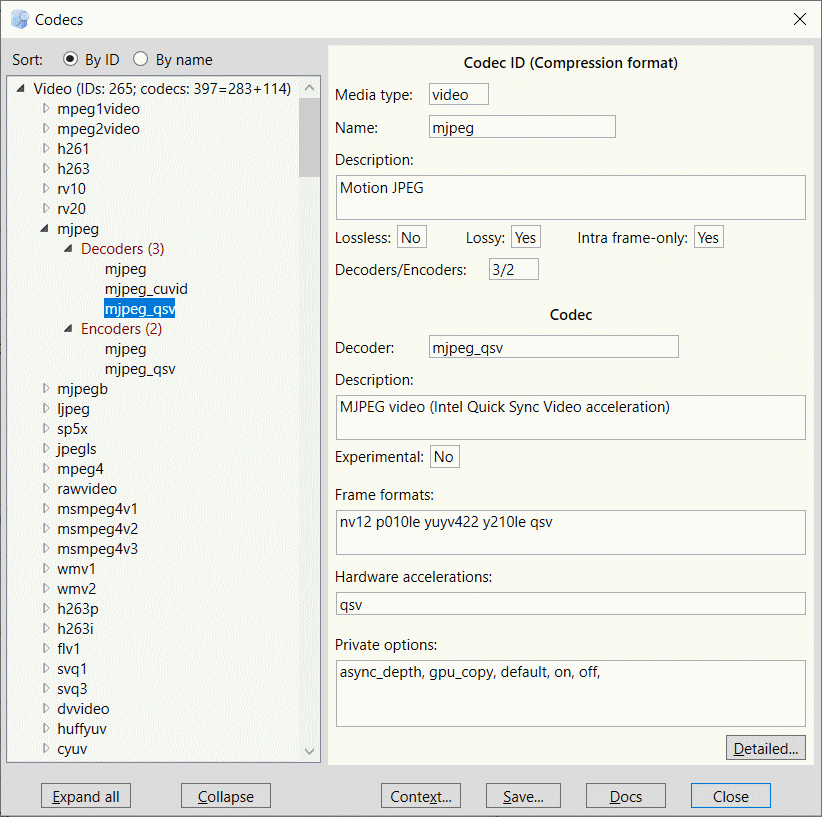
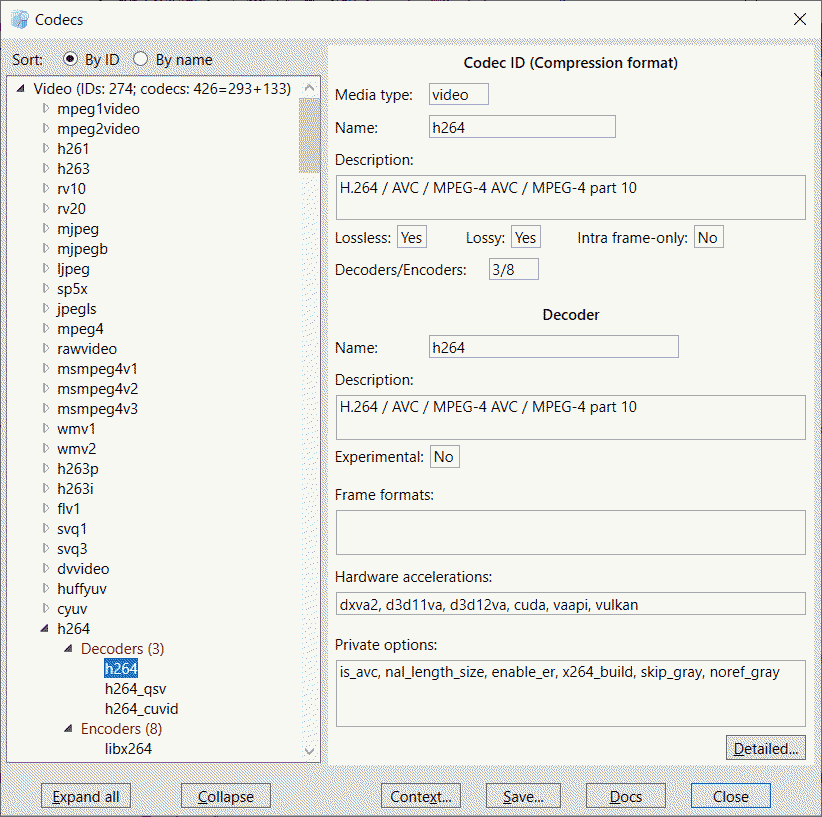
first commit 6

diff --git a/sources/FFmpegNetApps/Explorer/CodecWindow.xaml b/sources/FFmpegNetApps/Explorer/CodecWindow.xaml
@@ -49,7 +49,7 @@
                     <TextBox Name="textCodecIdName" Width="150" IsReadOnly="True" Text="" VerticalAlignment="Center"/>
                 </StackPanel>
                 <Label Content="Description:" />
-                <TextBox Name="textCodecId" Height="36" Margin="6, 0, 6, 0" IsReadOnly="True" TextWrapping="Wrap" VerticalAlignment="Center" VerticalScrollBarVisibility="Auto"/>
+                <TextBox Name="textCodecIdDescr" Height="36" Margin="6, 0, 6, 0" IsReadOnly="True" TextWrapping="Wrap" VerticalAlignment="Center" VerticalScrollBarVisibility="Auto"/>
                 <StackPanel Orientation="Horizontal">
                     <Label Content="Lossless:"/>
                     <TextBox Name="textLossless" Width="24" IsReadOnly="True" Text="" VerticalAlignment="Center"/>
@@ -66,13 +66,13 @@
                 
 
             <StackPanel Margin="0,10,0,0" Background="Ivory">
-                <Label Content="Codec" HorizontalAlignment="Center" FontWeight="SemiBold" />
-                <StackPanel Orientation="Horizontal"  >
-                    <Label Name="labelCodecName" Content="Name/Use:"  Width="80" />
+                    <Label Name="labelCodec" Content="Codec" HorizontalAlignment="Center" FontWeight="SemiBold" />
+                <StackPanel Orientation="Horizontal" >
+                    <Label Content="Name:"  Width="80" />
                         <TextBox Name="textCodecName" Width="200" IsReadOnly="True" Text="" VerticalAlignment="Center"/>
                 </StackPanel>
                 <Label Content="Description:" />
-                <TextBox Name="textCodecLongName" Height="36" Margin="6, 0, 6, 0" IsReadOnly="True" TextWrapping="Wrap" VerticalAlignment="Center" VerticalScrollBarVisibility="Auto"/>
+                <TextBox Name="textCodecDescr" Height="36" Margin="6, 0, 6, 0" IsReadOnly="True" TextWrapping="Wrap" VerticalAlignment="Center" VerticalScrollBarVisibility="Auto"/>
             
                 <StackPanel Orientation="Horizontal">
                     <Label Content="Experimental:"/>
@@ -83,7 +83,7 @@
                 <Label Content="Hardware accelerations:" Margin="0, 4, 0, 0" />
                 <TextBox Name="textAccelerations" Height="18" Margin="6, 0, 6, 6" IsReadOnly="True" TextWrapping="Wrap" VerticalAlignment="Center" VerticalScrollBarVisibility="Auto"/>
                 <Label Content="Private options:" Margin="0, 4, 0, 0" />
-                <TextBox Name="textPrivOptions" Height="54" Margin="6, 0, 6, 6" IsReadOnly="True" TextWrapping="Wrap" VerticalAlignment="Center" VerticalScrollBarVisibility="Auto"/>
+                <TextBox Name="textPrivOpts" Height="54" Margin="6, 0, 6, 6" IsReadOnly="True" TextWrapping="Wrap" VerticalAlignment="Center" VerticalScrollBarVisibility="Auto"/>
                     <Button Name="buttonPrivOpts" Width="64" HorizontalAlignment="Right" Content="_Detailed..." Margin="0, 0, 6, 4"  IsEnabled="False" 
                         Click="buttonPrivOpts_Click" />
 

diff --git a/sources/FFmpegNetApps/Explorer/FormatWindow.xaml b/sources/FFmpegNetApps/Explorer/FormatWindow.xaml
@@ -27,19 +27,19 @@
         </TreeView>
 
         <StackPanel Grid.Column="1"  Background="Ivory" Margin="6, 6, 6, 10">
-            <Label Name="labelDemuxMux" Content="Type" HorizontalAlignment="Center" FontWeight="SemiBold" />
+            <Label Name="labelDemuxMux" Content="Format" HorizontalAlignment="Center" FontWeight="SemiBold" />
             <StackPanel Orientation="Horizontal"  >
                 <Label Content="Name:"  Width="50" />
-                <TextBox Name="textFormatName" Width="200" IsReadOnly="True" Text="" VerticalAlignment="Center"/>
+                <TextBox Name="textName" Width="200" IsReadOnly="True" Text="" VerticalAlignment="Center"/>
             </StackPanel>
             <Label Content="Description:" />
-            <TextBox Name="textFormatLongName" Height="36" Margin="6, 0, 6, 0" IsReadOnly="True" TextWrapping="Wrap" VerticalAlignment="Center" VerticalScrollBarVisibility="Auto" />
+            <TextBox Name="textDescr" Height="36" Margin="6, 0, 6, 0" IsReadOnly="True" TextWrapping="Wrap" VerticalAlignment="Center" VerticalScrollBarVisibility="Auto" />
             <Label Content="Extentions:" />
-            <TextBox Name="textFormatExt" Height="18" Margin="6, 0, 6, 0" IsReadOnly="True" TextWrapping="Wrap" VerticalAlignment="Center" VerticalScrollBarVisibility="Auto"/>
+            <TextBox Name="textExts" Height="18" Margin="6, 0, 6, 0" IsReadOnly="True" TextWrapping="Wrap" VerticalAlignment="Center" VerticalScrollBarVisibility="Auto"/>
             <Label Content="MIME:" />
-            <TextBox Name="textFormatMime" Height="18" Margin="6, 0, 6, 0" IsReadOnly="True" TextWrapping="Wrap" VerticalAlignment="Center" VerticalScrollBarVisibility="Auto"/>
+            <TextBox Name="textMime" Height="18" Margin="6, 0, 6, 0" IsReadOnly="True" TextWrapping="Wrap" VerticalAlignment="Center" VerticalScrollBarVisibility="Auto"/>
             <Label Content="Private options:" Margin="0, 4, 0, 0" />
-            <TextBox Name="textPrivOptions" Height="54" Margin="6, 0, 6, 6" IsReadOnly="True" TextWrapping="Wrap" VerticalAlignment="Center" VerticalScrollBarVisibility="Auto"/>
+            <TextBox Name="textPrivOpts" Height="54" Margin="6, 0, 6, 6" IsReadOnly="True" TextWrapping="Wrap" VerticalAlignment="Center" VerticalScrollBarVisibility="Auto"/>
             <Button Name="buttonPrivOpts" Width="64" HorizontalAlignment="Right" Content="_Detailed..." Margin="0, 4, 6, 4" IsEnabled="False" 
                     Click="buttonPrivOpts_Click" />
          </StackPanel>

diff --git a/sources/FFmpegNetApps/Explorer/ProtocolWindow.xaml b/sources/FFmpegNetApps/Explorer/ProtocolWindow.xaml
@@ -44,10 +44,10 @@
             </StackPanel>
 
             <Label Content="Direction:" Margin="0, 4, 0, 0" />
-            <TextBox Name="textDirection" Margin="6, 0, 6, 6" IsReadOnly="True" TextWrapping="Wrap" VerticalAlignment="Center" VerticalScrollBarVisibility="Auto"/>
+            <TextBox Name="textDirs" Margin="6, 0, 6, 6" IsReadOnly="True" TextWrapping="Wrap" VerticalAlignment="Center" VerticalScrollBarVisibility="Auto"/>
 
             <Label Content="Private options:" Margin="0, 4, 0, 0" />
-            <TextBox Name="textPrivOptions" Height="148" Margin="6, 0, 6, 6" IsReadOnly="True" TextWrapping="Wrap" VerticalAlignment="Center" VerticalScrollBarVisibility="Auto"/>
+            <TextBox Name="textPrivOpts" Height="148" Margin="6, 0, 6, 6" IsReadOnly="True" TextWrapping="Wrap" VerticalAlignment="Center" VerticalScrollBarVisibility="Auto"/>
             <Button Name="buttonPrivOpts" Width="64" HorizontalAlignment="Right" Content="_Detailed..." Margin="0, 4, 6, 4" IsEnabled="False" 
                     Click="buttonPrivOpts_Click" />
         </StackPanel>

diff --git a/sources/FFmpegNetApps/Explorer/BsfWindow.xaml b/sources/FFmpegNetApps/Explorer/BsfWindow.xaml
@@ -44,7 +44,7 @@
             <Label Content="Codecs:" Margin="0, 4, 0, 0" />
             <TextBox Name="textCodecs" Height="72" Margin="6, 0, 6, 6" IsReadOnly="True" TextWrapping="Wrap" VerticalAlignment="Center" VerticalScrollBarVisibility="Auto"/>
             <Label Content="Private options:" Margin="0, 4, 0, 0" />
-            <TextBox Name="textPrivOptions" Height="148" Margin="6, 0, 6, 6" IsReadOnly="True" TextWrapping="Wrap" VerticalAlignment="Center" VerticalScrollBarVisibility="Auto"/>
+            <TextBox Name="textPrivOpts" Height="148" Margin="6, 0, 6, 6" IsReadOnly="True" TextWrapping="Wrap" VerticalAlignment="Center" VerticalScrollBarVisibility="Auto"/>
             <Button Name="buttonPrivOpts" Width="64" HorizontalAlignment="Right" Content="_Detailed..." Margin="0, 4, 6, 4" IsEnabled="False" 
                     Click="buttonPrivOpts_Click" />
         </StackPanel>

diff --git a/sources/FFmpegNetApps/Explorer/FilterWindow.xaml b/sources/FFmpegNetApps/Explorer/FilterWindow.xaml
@@ -48,7 +48,7 @@
             <TextBox Name="textDescr" Height="72" Margin="6, 0, 6, 6" IsReadOnly="True" TextWrapping="Wrap" VerticalAlignment="Center" VerticalScrollBarVisibility="Auto"/>
 
             <Label Content="Private options:" Margin="0, 4, 0, 0" />
-            <TextBox Name="textPrivOptions" Height="148" Margin="6, 0, 6, 6" IsReadOnly="True" TextWrapping="Wrap" VerticalAlignment="Center" VerticalScrollBarVisibility="Auto"/>
+            <TextBox Name="textPrivOpts" Height="148" Margin="6, 0, 6, 6" IsReadOnly="True" TextWrapping="Wrap" VerticalAlignment="Center" VerticalScrollBarVisibility="Auto"/>
             <Button Name="buttonPrivOpts" Width="64" HorizontalAlignment="Right" Content="_Detailed..." Margin="0, 4, 6, 4" IsEnabled="False" 
                     Click="buttonPrivOpts_Click" />
         </StackPanel>

diff --git a/sources/FFmpegNetApps/Explorer/FormatWindow.xaml.cs b/sources/FFmpegNetApps/Explorer/FormatWindow.xaml.cs
@@ -16,6 +16,7 @@ namespace Explorer
         const string DocUrl = @"https://ffmpeg.org/ffmpeg-formats.html";
 
         FormatList m_Formats;
+        FormatInfo m_CurrInfo;
 
         public FormatWindow()
         {
@@ -29,32 +30,44 @@ namespace Explorer
             dlg.ShowDialog();
         }
 
+        void Window_Closed(object sender, EventArgs e) => m_Formats.Dispose();
+
         void SetupList()
         {
             m_Formats = new FormatList();
             SetupFormatTree(treeViewRoot, m_Formats, labelInfo);
-            labelDemuxMux.Content = " ";
         }
 
-        void Window_Closed(object sender, EventArgs e) => m_Formats.Dispose();
-
-        void treeView_SelectedItemChanged(object sender, EventArgs e) => SetFormatInfo(GetInfo());
-
-        FormatInfo GetInfo()
+        void SetFormatInfo()
         {
             var item = (TreeViewItem)treeView.SelectedItem;
-            return item?.Tag as FormatInfo;
+            if (item != null)
+            {
+                m_CurrInfo = item.Tag as FormatInfo;
+                SetFormatInfo(m_CurrInfo);
+                if (m_CurrInfo == null)
+                {
+                    textName.Text = item != treeViewRoot
+                        ? (string)item.Header
+                        : string.Empty;
+                }
+            }
+            else
+            {
+                SetFormatInfo(null);
+                m_CurrInfo = null;
+            }
         }
 
         void SetFormatInfo(FormatInfo info)
         {
-            textFormatName.Text = info?.Name;
-            labelDemuxMux.Content = info != null ? (info.Demuxer ? "Demuxer" : "Muxer") : " ";
-            textFormatLongName.Text = info?.LongName;
-            textFormatExt.Text = info?.Extentions;
-            textFormatMime.Text = info?.Mime;
-            textPrivOptions.Text = info?.PrivOptions;
-            buttonPrivOpts.IsEnabled = !ListItemOpt.IsEmptyEx(textPrivOptions.Text);
+            textName.Text = info?.Name;
+            labelDemuxMux.Content = info != null ? (info.Demuxer ? "Demuxer" : "Muxer") : "Format";
+            textDescr.Text = info?.LongName;
+            textExts.Text = info?.Extentions;
+            textMime.Text = info?.Mime;
+            textPrivOpts.Text = info?.PrivOptions;
+            buttonPrivOpts.IsEnabled = !ListItemOpt.IsEmptyEx(textPrivOpts.Text);
         }
 
         static TreeViewItem AddChildItem(TreeViewItem parItem, object hdr, object tag)
@@ -92,8 +105,7 @@ namespace Explorer
 
         void Write(StreamWriter sw) => FormatWriter.Write(sw, m_Formats, labelInfo.Content.ToString());
 
-        void buttonSave_Click(object sender, EventArgs e) => FileDlg.SaveInTxt(this, Write);
-
+        void treeView_SelectedItemChanged(object sender, EventArgs e) => SetFormatInfo();
 
         void buttonExpandAll_Click(object sender, EventArgs e) => treeViewRoot.ExpandSubtree();
 
@@ -105,7 +117,9 @@ namespace Explorer
             }
         }
 
-        void buttonPrivOpts_Click(object sender, EventArgs e) => OptionsWindow.Launch(this, GetInfo()?.PrivOptionsEx);
+        void buttonSave_Click(object sender, EventArgs e) => FileDlg.SaveInTxt(this, Write);
+
+        void buttonPrivOpts_Click(object sender, EventArgs e) => OptionsWindow.Launch(this, m_CurrInfo?.PrivOptionsEx);
 
         void buttonContext_Click(object sender, EventArgs e) => OptionsWindow.Launch(this, m_Formats.ContextOptionsEx, true);
 

diff --git a/sources/FFmpegNetApps/Explorer/CodecWindow.xaml.cs b/sources/FFmpegNetApps/Explorer/CodecWindow.xaml.cs
@@ -53,7 +53,6 @@ namespace Explorer
             treeViewRootA.ExpandSubtree();
             treeViewRootS.ExpandSubtree();
             treeViewRootD.ExpandSubtree();
-            //treeViewRootT.ExpandSubtree();
         }
 
         void buttonCollapseAll_Click(object sender, EventArgs e)
@@ -62,7 +61,6 @@ namespace Explorer
             treeViewRootA.IsExpanded = false;
             treeViewRootS.IsExpanded = false;
             treeViewRootD.IsExpanded = false;
-            //treeViewRootT.IsExpanded = false;
         }
 
         void SetCodecInfo(CodecNode node, CodecInfo info)
@@ -86,7 +84,7 @@ namespace Explorer
 
             textMediaType.Text = node?.MediaTypeStr;
             textCodecIdName.Text = node?.Name;
-            textCodecId.Text = node?.LongName;
+            textCodecIdDescr.Text = node?.LongName;
             textLossless.Text = YesNoVA(node?.Lossless);
             textLossy.Text = YesNoVA(node?.Lossy);
             textIntraOnly.Text = YesNoVA(node?.IntraOnly);
@@ -94,14 +92,14 @@ namespace Explorer
                 ? $"{node.DecoderCount}/{node.EncoderCount}" 
                 : null;
 
-            labelCodecName.Content = (info != null) ? (info.Decoder ? "Decoder:" : "Encoder:") : null;
+            labelCodec.Content = (info != null) ? (info.Decoder ? "Decoder" : "Encoder") : "Codec";
             textCodecName.Text = info?.Name;
-            textCodecLongName.Text = info?.LongName;
+            textCodecDescr.Text = info?.LongName;
             textExperimental.Text = YesNo(info?.Experimental);
             textMediaFormats.Text = info?.Formats;
             textAccelerations.Text = info?.HWAccels;
-            textPrivOptions.Text = info?.PrivOptions;
-            buttonPrivOpts.IsEnabled = !ListItemOpt.IsEmptyEx(textPrivOptions.Text);
+            textPrivOpts.Text = info?.PrivOptions;
+            buttonPrivOpts.IsEnabled = !ListItemOpt.IsEmptyEx(textPrivOpts.Text);
         }
 
         static void SetupCodecSubTree(TreeViewItem root, CodecList codecs, MediaType type, bool sort)

diff --git a/sources/FFmpegNetApps/Explorer/ProtocolWindow.xaml.cs b/sources/FFmpegNetApps/Explorer/ProtocolWindow.xaml.cs
@@ -74,10 +74,10 @@ namespace Explorer
                 {
                     textName.Text = pi.Name;
 
-                    textPrivOptions.Text = pi.PrivOptions;
-                    buttonPrivOpts.IsEnabled = !ListItemOpt.IsEmptyEx(textPrivOptions.Text);
+                    textPrivOpts.Text = pi.PrivOptions;
+                    buttonPrivOpts.IsEnabled = !ListItemOpt.IsEmptyEx(textPrivOpts.Text);
 
-                    textDirection.Text = (pi.IsInput && pi.IsOutput)
+                    textDirs.Text = (pi.IsInput && pi.IsOutput)
                         ? "input, output"
                         : pi.IsInput ? "input" : "output";
                 }

diff --git a/sources/FFmpegNetApps/Explorer/FilterWindow.xaml.cs b/sources/FFmpegNetApps/Explorer/FilterWindow.xaml.cs
@@ -92,8 +92,8 @@ namespace Explorer
                     textName.Text = pi.Name;
                     textDescr.Text = pi.Descr;
 
-                    textPrivOptions.Text = !InBlackList(pi.Name) ? pi.PrivOptions : string.Empty;
-                    buttonPrivOpts.IsEnabled = !ListItemOpt.IsEmptyEx(textPrivOptions.Text);
+                    textPrivOpts.Text = !InBlackList(pi.Name) ? pi.PrivOptions : string.Empty;
+                    buttonPrivOpts.IsEnabled = !ListItemOpt.IsEmptyEx(textPrivOpts.Text);
                 }
             }
         }

diff --git a/sources/FFmpegNetApps/Explorer/BsfWindow.xaml.cs b/sources/FFmpegNetApps/Explorer/BsfWindow.xaml.cs
@@ -64,8 +64,8 @@ namespace Explorer
                     textName.Text = pi.Name;
                     textCodecs.Text = pi.CodecIds;
 
-                    textPrivOptions.Text = pi.PrivOptions;
-                    buttonPrivOpts.IsEnabled = !ListItemOpt.IsEmptyEx(textPrivOptions.Text);
+                    textPrivOpts.Text = pi.PrivOptions;
+                    buttonPrivOpts.IsEnabled = !ListItemOpt.IsEmptyEx(textPrivOpts.Text);
                 }
             }
         }
